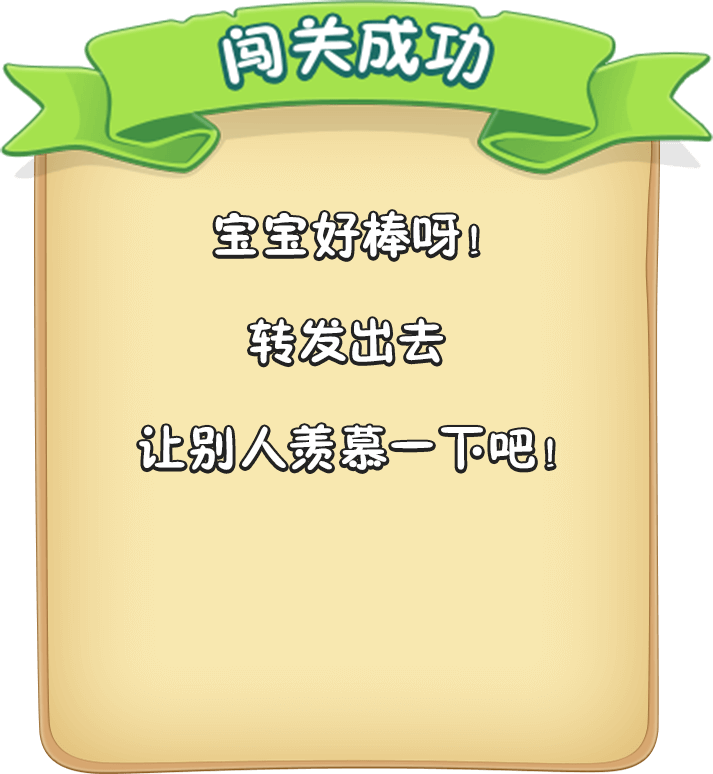
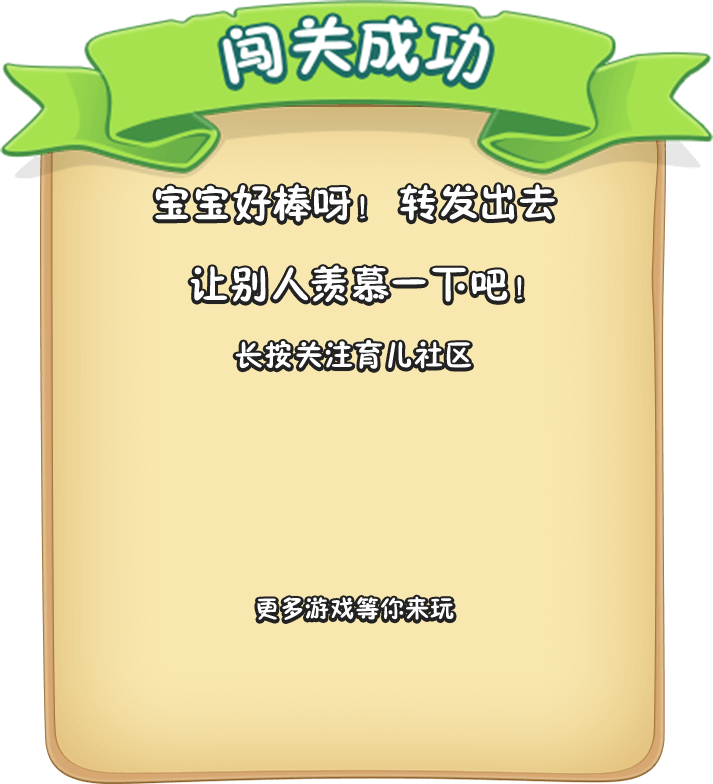
change

diff --git a/css/index.css b/css/index.css
@@ -18,7 +18,7 @@
 			width:100%;
 			max-width:480px;
 			min-width: 320px;
-			font-family:"微软雅黑";
+			font-family:Helvetica,"微软雅黑";
 			background-color:#a7d1fc;
 			overflow: hidden;
 			margin:0 auto;
@@ -27,10 +27,11 @@
 			background-color: #fff;
 		}
 		body{
-			background: url(../img/start_bg.png) no-repeat;
+			background: url(../img/start_bg.png) repeat-x;
 			/*background-color:#a7d1fc;*/
 			background-size:cover;
-			background-position: center -1.10rem;		
+			background-position: center -1.10rem;	
+			
 		}
 	
 		.start{
@@ -134,10 +135,10 @@
 			position: absolute;top:5.1rem;left:0.7rem;width:5.1rem;
 		}
 		.sucess_inner{
-			position: absolute;top:5.2rem;left:0.7rem;width:5.1rem;
+			position: absolute;top:3.4rem;left:0.7rem;width:5.1rem;
 		}
 		#baby_icon{
-			width:3.04rem;height:3.8rem;margin-top: 0.1rem;position: absolute;left:-0.7rem;
+			width:3.04rem;height:3.8rem;position: absolute;bottom:-3.2rem;left:0
 		}
 		
 		.play_again{
@@ -152,11 +153,17 @@
 		#mark{
 			width:2.56rem;height:2.56rem;
 		}
+		#mark2{
+			width:2.0rem;height:2.0rem;
+		}
 		#rabbit{
 			width:2.73rem;height:3.94rem;position: absolute;left:-1rem;margin-top:-0.3rem;
 		}
 		#cancel_box{
 			width:1.46rem;height:1.5rem;position: absolute;bottom:-0.75rem;right:-0.4rem;
+		}
+		.sucess_play_again{
+			position: relative;top: 0.33rem;z-index: 2;
 		}
 		.model_wrap>img{
 			width: 100%;

diff --git a/index.html b/index.html
@@ -11,8 +11,9 @@
 	
 </head>
 <body>
+	
 	<div class="main_box">
-		<div class="start" style="display:block">
+		<div class="start">
 			<div class="music_btn">
 			<img src="img/music_pause.png" class="paused_img">
 			<img src="img/music_play.png" class="play_img">
@@ -54,14 +55,15 @@
 
 		</div>
 		<!-- //挑战成功 -->
-		<div id="sucess" class="model_wrap" >
+		<div id="sucess" class="model_wrap">
 			<img src="img/game_sucess.png">
-			<div class="sucess_inner" style="">
-				<div class="btn_wrap h_18" >
-					<img src="img/play_again.png" class="play_again" >
+			<div class="sucess_inner" >
+				<div class="btn_wrap" >
+					<img src="img/mark.jpg" id="mark2">
+					<img src="img/play_again.png" class="play_again sucess_play_again" >
 				</div>
-				<img src="img/baby_icon2.png" id="baby_icon" >
 			</div>
+			<img src="img/baby_icon2.png" id="baby_icon"  >
 		</div>
 		<!-- 挑战失败 -->
 		<div id="fail"  class="model_wrap" >
